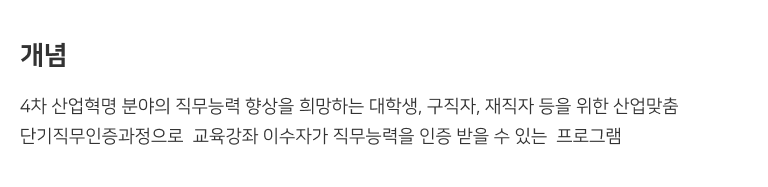
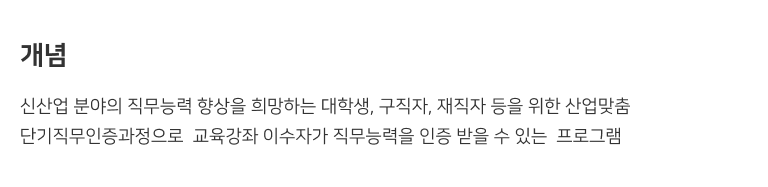
매치업 추가 개발건 완료. 20220504. v1

Changed region(s): [[0.0, 0.508, 0.9062, 0.615]]

diff --git a/lms/templates/matchup_course.html b/lms/templates/matchup_course.html
@@ -105,12 +105,9 @@ ${("")}
         <div class="match__wrap">
             <div class="match__wrap_banner" style="background-image: url('${STATIC_URL}/new_index/images/matchup-img/bg-matchup.png')">
                 <img src="${STATIC_URL}/new_index/images/matchup-img/kmoocbymatchup-logo.png" alt="banner-title">
-                <h2>4차 산업혁명 분야 단기직무능력인증과정</h2>
-                <h3>매치업(Match業)</h3>
-                <p>신산업 분야의 직무 능력을 향상하는 학습자를 위한 산업 맞춤 단기직무능력인증과정입니다.<br>
-                    매치업에서 운영되는 교육강좌의 이수자는 직무능력 인증평가를 통해 관련 분야에 대한 직무 능력을 인증받을 수 있습니다.
-
-                </p>
+                 <h2><strong>매치업 (Match業)</strong></h2>
+                <h3>신사업 분야 단기직무능력인증과정</h3>
+                <p>신산업 분야의 직무 능력을 향상하는 학습자를 위한 산업 맞춤 단기직무능력인증과정입니다.<br>매치업에서 운영되는 교육강좌의 이수자는 직무능력 인증평가를 통해 관련 분야에 대한 직무 능력을 인증받을 수 있습니다.</p>
                 <a href="/matchup_info" class="match__btn-border" alt="매치업 소개 이동">매치업 소개 바로가기 <img src="${STATIC_URL}/new_index/images/matchup-img/arrow-right.svg"></a>
                 <a href="https://www.matchup.kr/" target="_blank" class="match__btn-logo" alt="매치업 사이트 이동">
                     <img src="${STATIC_URL}/new_index/images/matchup-img/matchup_logo_white.png">

diff --git a/lms/templates/matchup_info.html b/lms/templates/matchup_info.html
@@ -108,11 +108,9 @@ ${("")}
         <div class="match__wrap">
             <div class="match__wrap_banner" style="background-image: url('${STATIC_URL}/new_index/images/matchup-img/bg-matchup.png')">
                 <img src="${STATIC_URL}/new_index/images/matchup-img/kmoocbymatchup-logo.png" alt="banner-title">
-                <h2>매치업 (Match業)</h2>
-                <h3>4차 산업혁명 분야 단기직무능력인증과정</h3>
-                <p>신산업 분야의 직무 능력을 향상하는 학습자를 위한 산업 맞춤 단기직무능력인증과정입니다.<br>
-                    매치업에서 운영되는 교육강좌의 이수자는 직무능력 인증평가를 통해 관련 분야에 대한 직무 능력을 인증받을 수 있습니다.
-                </p>
+                <h2><strong>매치업 (Match業)</strong></h2>
+                <h3>신사업 분야 단기직무능력인증과정</h3>
+                <p>신산업 분야의 직무 능력을 향상하는 학습자를 위한 산업 맞춤 단기직무능력인증과정입니다.<br>매치업에서 운영되는 교육강좌의 이수자는 직무능력 인증평가를 통해 관련 분야에 대한 직무 능력을 인증받을 수 있습니다.</p>
                 <a href="/matchup_course" class="match__btn-border" alt="매치업 소개 이동">매치업 강좌 바로가기 <img src="${STATIC_URL}/new_index/images/matchup-img/arrow-right.svg"></a>
                 <a href="https://www.matchup.kr/" target="_blank" class="match__btn-logo" alt="매치업 사이트 이동">
                     <img src="${STATIC_URL}/new_index/images/matchup-img/matchup_logo_white.png">

diff --git a/lms/templates/index.html b/lms/templates/index.html
@@ -398,7 +398,7 @@ from openedx.core.djangolib.markup import HTML, Text
                     </div>
                     <!-- matchup -->
                     <div>
-                        <a href="/matchup" target="_blank" style="display:block" title="매치 바로가기">
+                        <a href="/matchup_info" target="_blank" style="display:block" title="매치 바로가기">
                             <img src="${STATIC_URL}images/matchup_images/banner4.png" alt="매치업 바로가기" style="width: 100%"/>
                         </a>
                     </div>
@@ -467,7 +467,7 @@ from openedx.core.djangolib.markup import HTML, Text
                         </li>
 
                         <li>
-                            <a href="/matchup" target="_blank">${_("Match UP")}</a>
+                            <a href="/matchup_info" target="_blank">${_("Match UP")}</a>
                         </li>
                     </ul>
                     <a href="/courses" class="more" title="강좌찾기 더 보기">more</a>
@@ -482,7 +482,7 @@ from openedx.core.djangolib.markup import HTML, Text
 
                 <!-- 매치업 -->
                 <div class="col-sm-4 col-md-4 col-lg-2 el-xbox">
-                    <a href="/matchup" target="_blank" class="classify-item2 inject-h"><strong>${_("Match UP")}</strong></a>
+                    <a href="/matchup_info" target="_blank" class="classify-item2 inject-h"><strong>${_("Match UP")}</strong></a>
                 </div>
 
                 <!-- 교양 강좌 -->

diff --git a/lms/static/new_index/css/match_style.css b/lms/static/new_index/css/match_style.css
@@ -44,30 +44,32 @@ a:hover {
     vertical-align: middle;
     padding: 35px 0;
 }
-
-.match__wrap_banner h2 {
+.match__wrap_banner h2{
     font-family: 'Noto Sans KR';
     font-size: 3rem;
     font-weight: 600;
-    color: #333;
-    margin: 15px 0;
+    margin-top: 25px;
+    margin-bottom: 0;
+}
+.match__wrap_banner h2 strong{
+    background-color: #9064EE;
+    color: #fff;
+    padding:2px 15px;
 }
 
-.match__wrap_banner h3 {
+.match__wrap_banner h3{
     font-family: 'Noto Sans KR';
-    font-size: 2.5rem;
+    font-size: 2rem;
     font-weight: 600;
-    color: #444;
-    margin: 15px 0;
+    color: #333;
+    margin: 0 0 15px;
 }
-
 .match__wrap_banner h4 {
     font-family: 'Noto Sans KR';
     font-size: 1.5rem;
     font-weight: 600;
     color: #fff;
-    margin: 0;
-    margin-top: 35px;
+    margin: 35px 0 0 0;
 }
 
 .match__wrap_banner p {
@@ -75,6 +77,7 @@ a:hover {
     font-size: 20px;
     margin-bottom: 3rem;
     padding: 10px 0;
+    line-height: 1.3;
 }
 
 .match__wrap_banner .match__btn-logo {
